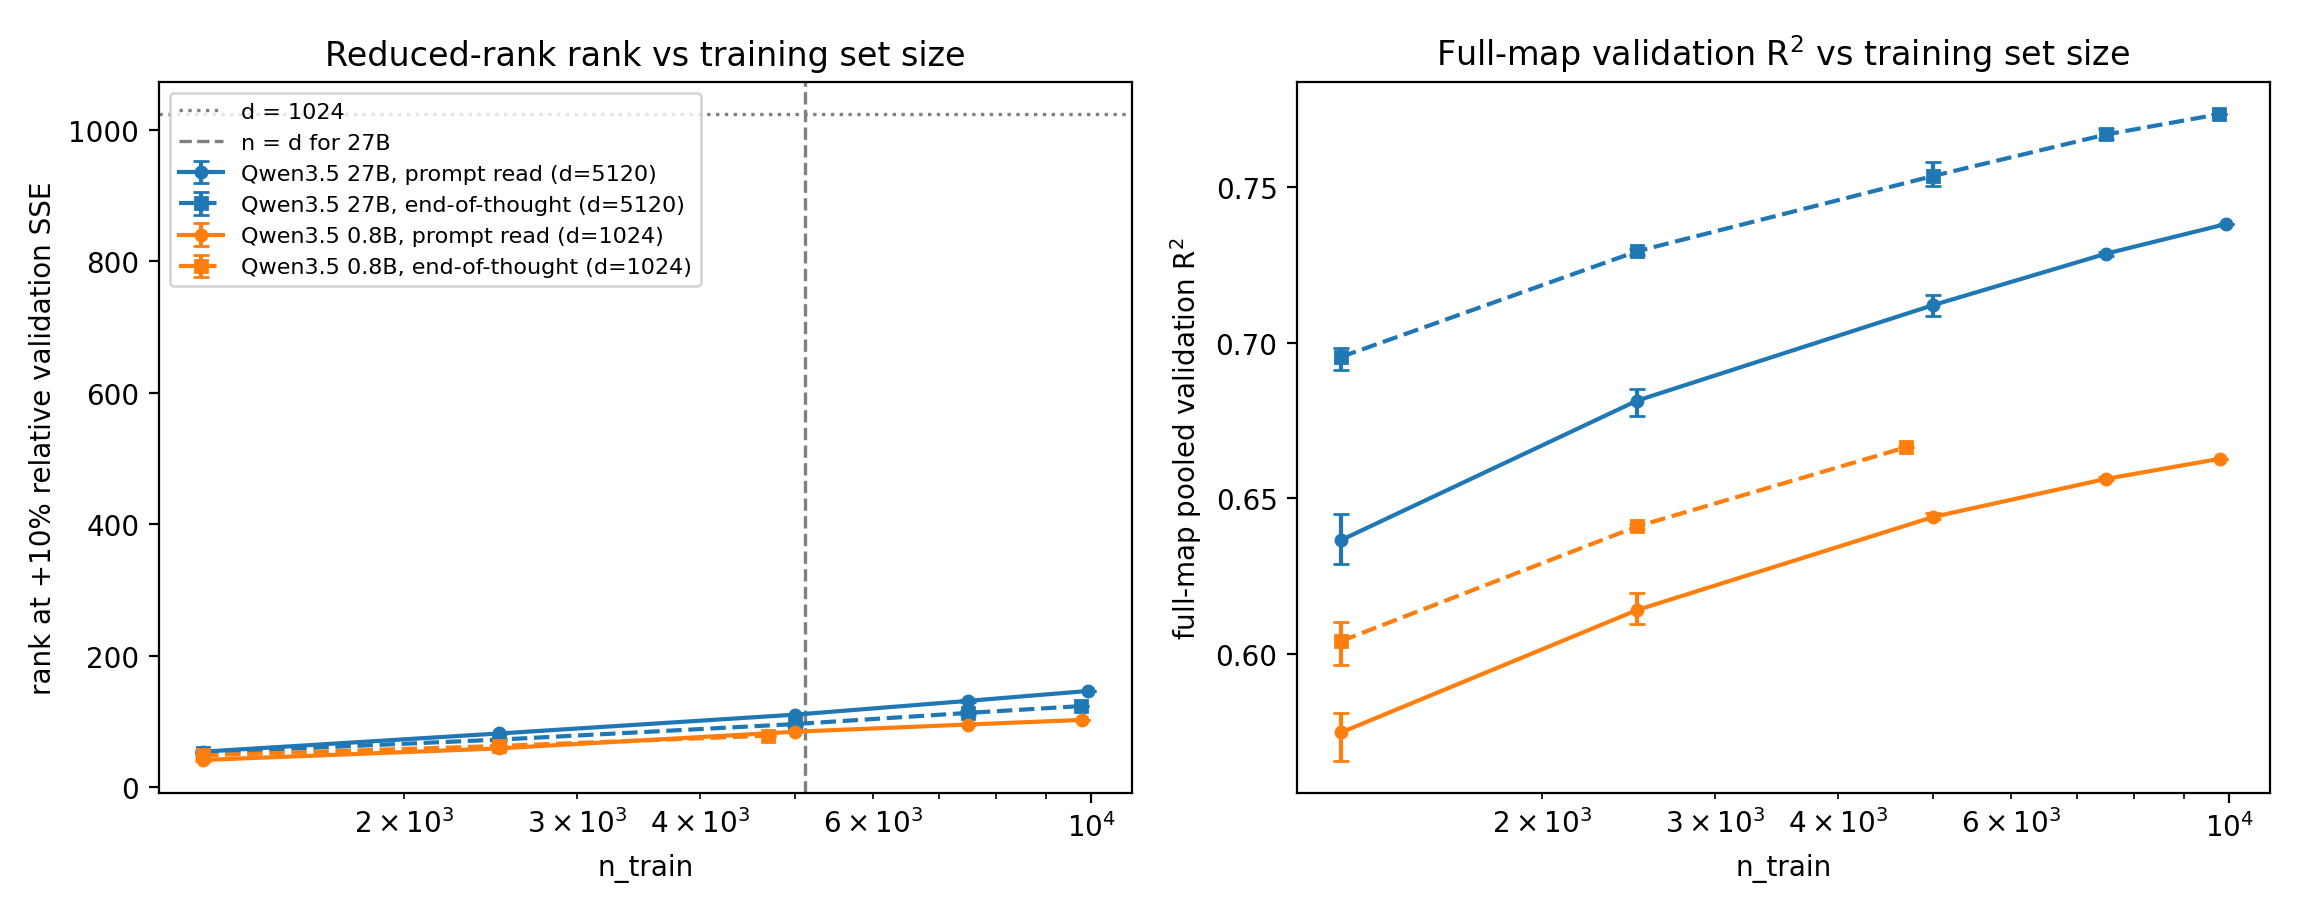
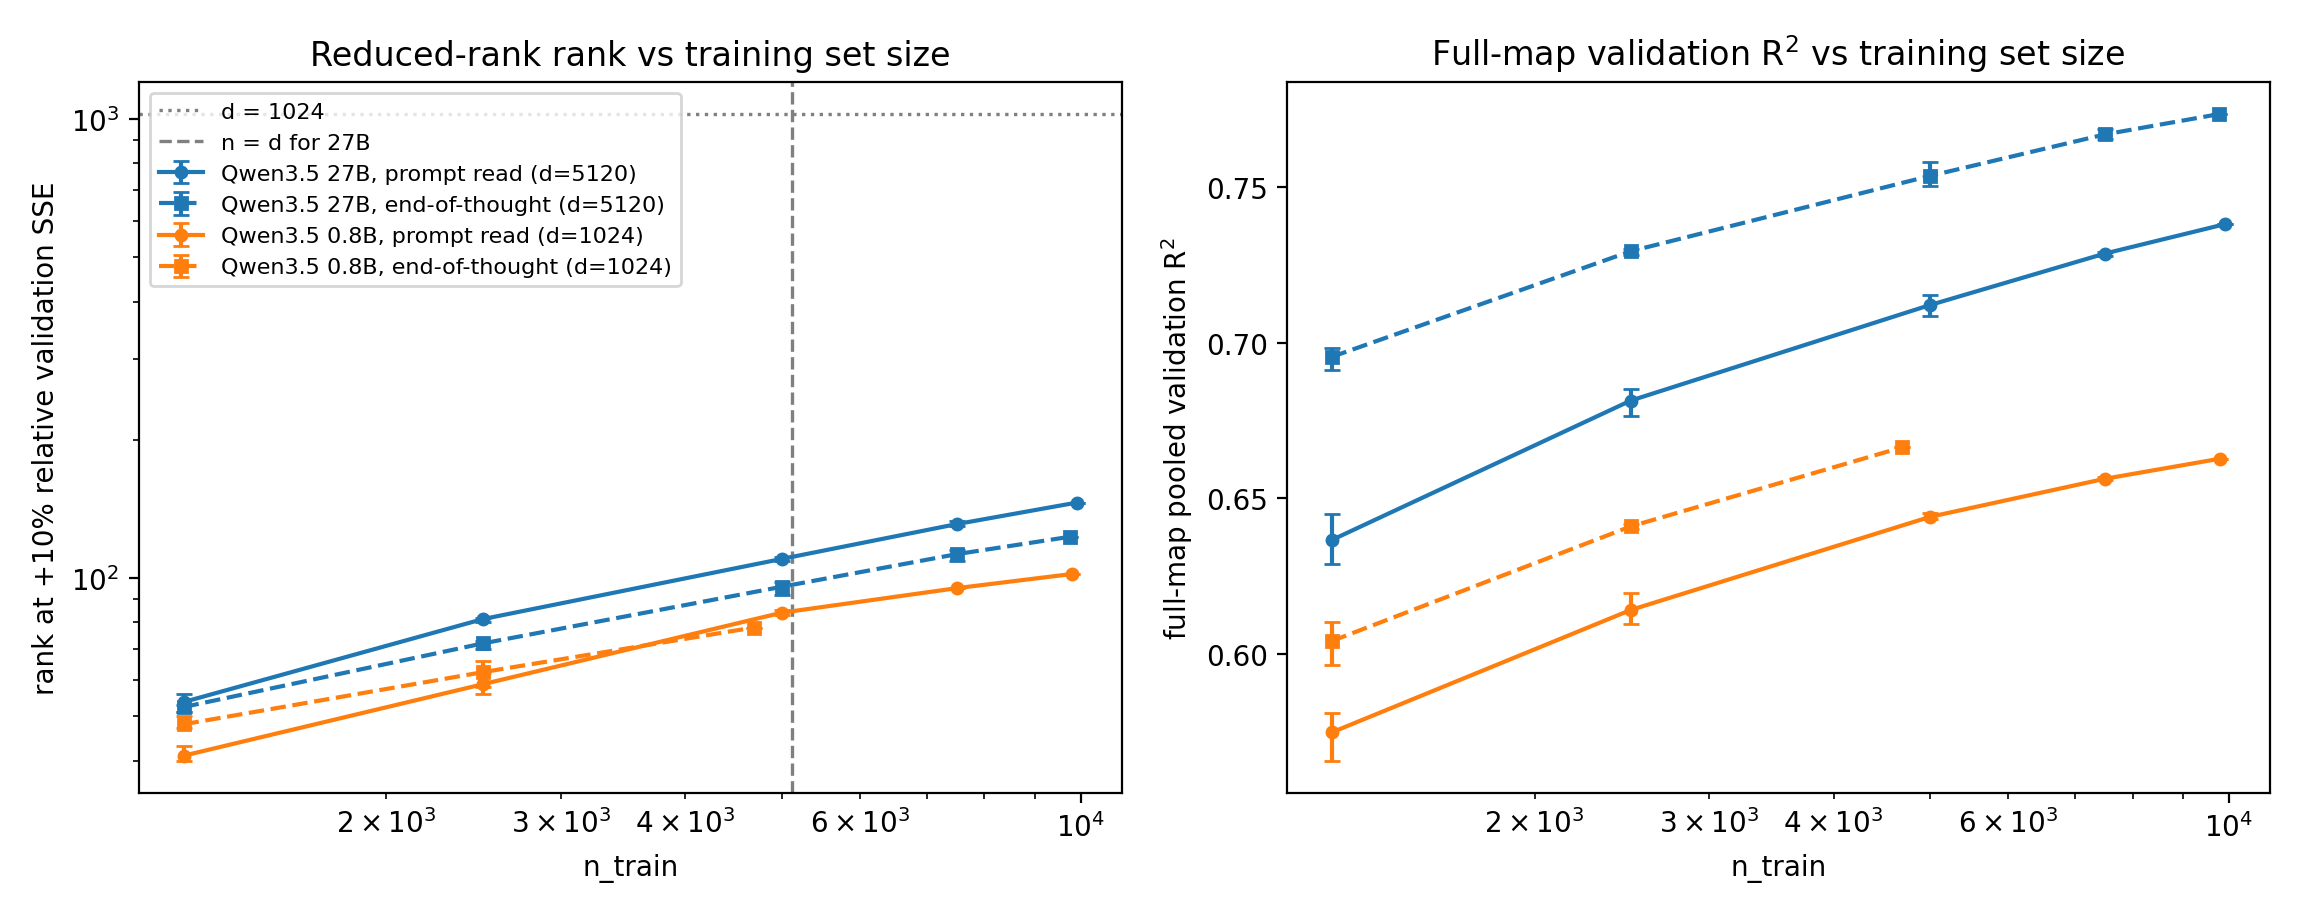
#2588 rank vs n_train figure: log y-axis on the rank panel
Generated with [Claude Code](https://claude.ai/code)
via [Happy](https://happy.engineering)

diff --git a/scripts/issue2588_rank_vs_ntrain.py b/scripts/issue2588_rank_vs_ntrain.py
@@ -561,6 +561,8 @@ def render_figure(fits: dict[str, dict[str, Any]]) -> None:
     axes[0].axhline(1024, color="grey", linestyle=":", linewidth=1.2, label="d = 1024")
     axes[0].axvline(5120, color="grey", linestyle="--", linewidth=1.2, label="n = d for 27B")
     axes[0].set_ylabel("rank at +10% relative validation SSE")
+    # Log scale keeps the 40 to 150 rank curves readable next to the d = 1024 reference.
+    axes[0].set_yscale("log")
     axes[0].set_title("Reduced-rank rank vs training set size")
     axes[0].legend(fontsize=8, loc="upper left")
     axes[1].set_ylabel("full-map pooled validation R$^2$")
